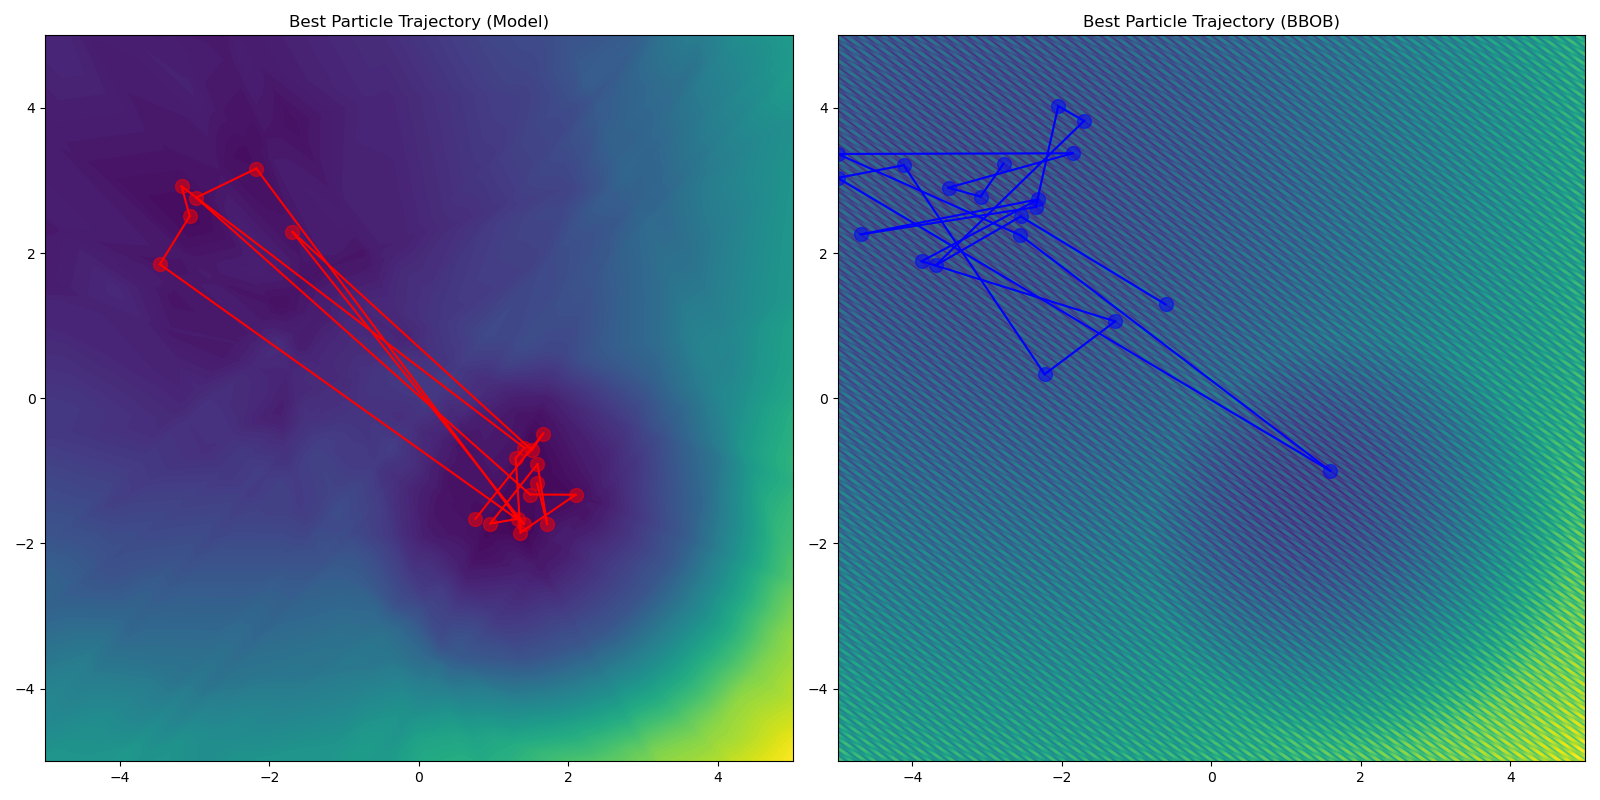
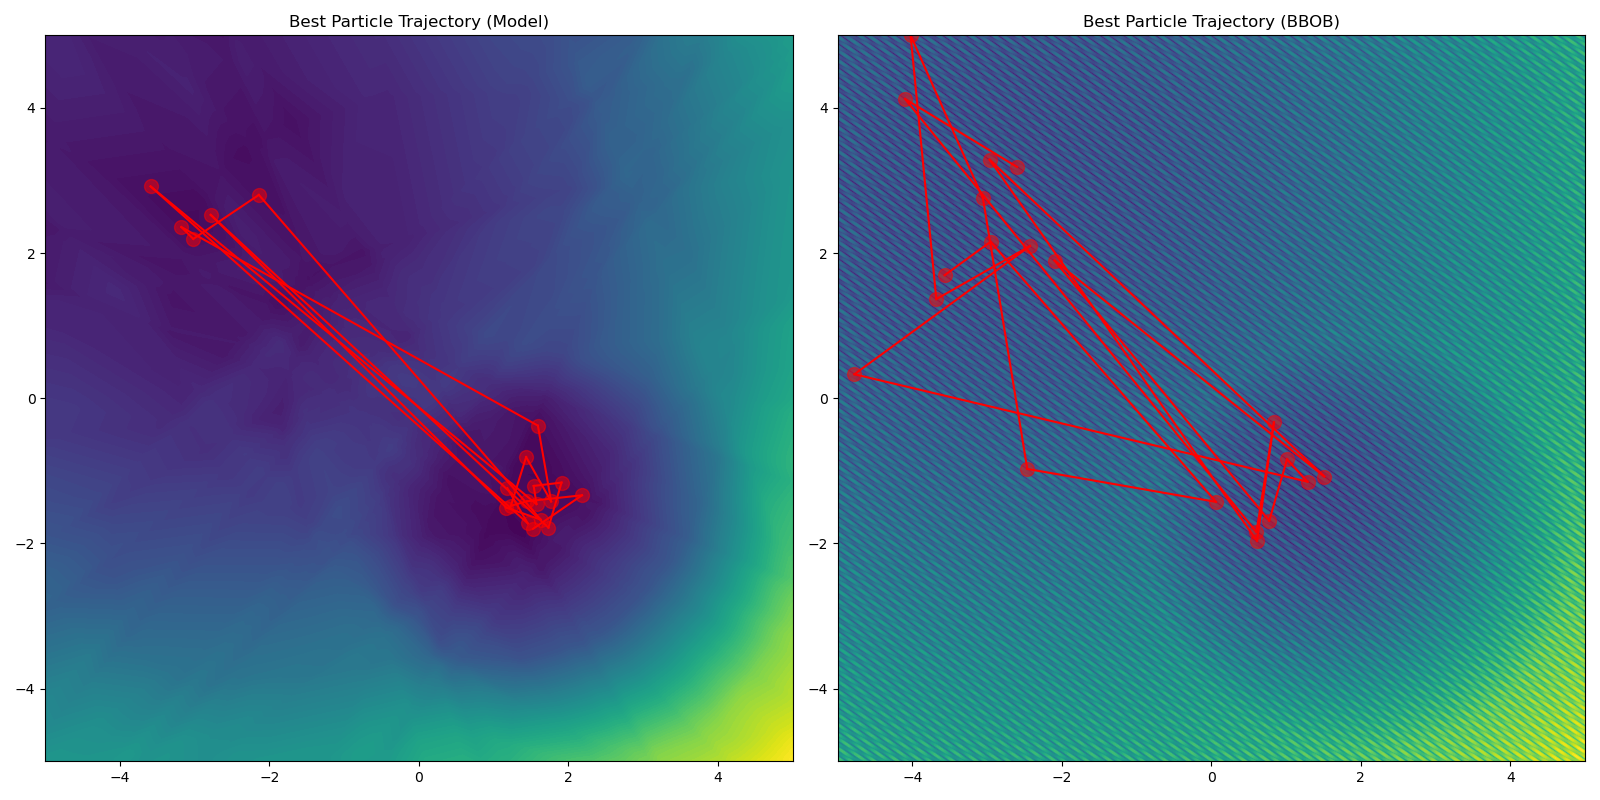
PSO Optim Update

diff --git a/src/PSO_try_bestP.py b/src/PSO_try_bestP.py
@@ -12,7 +12,7 @@ class PSO_optimizer():
         self.model = self.load_model(model_path)
         self.input_bounds = input_bounds
         self.model.eval()
-        self.bbob = bbobtorch.create_f01(2, seed=42)
+        self.bbob = bbobtorch.create_f24(2, seed=42)
         self.bbob_path = pd.DataFrame(columns=["x1", "x2", "y"])
         self.model_path = pd.DataFrame(columns=["x1", "x2", "y"])
         self.path = []
@@ -65,17 +65,17 @@ class PSO_optimizer():
         with torch.no_grad():
             predictions = self.model(grid_data_tensor).numpy().reshape(x_grid.shape)
 
-        function_values = self._get_gt_function(x_grid, y_grid)
+        function_values_bbob = self._get_gt_function(x_grid, y_grid)
 
         fig, axes = plt.subplots(1, 2, figsize=(16, 8))
 
         ax1 = axes[0]  # Define ax1 for the left plot
         ax2 = axes[1]  # Define ax2 for the right plot
 
-        for ax, path in zip([ax1, ax2], [path_model, path_bbob]):
-            ax.contourf(x_grid, y_grid, predictions, levels=100, cmap='viridis')
-            ax.contourf(x_grid, y_grid, function_values, levels=100, cmap='viridis')
+        ax1.contourf(x_grid, y_grid, predictions, levels=100, cmap='viridis')
+        ax2.contourf(x_grid, y_grid, function_values_bbob, levels=100, cmap='viridis')
 
+        for ax, path in zip([ax1, ax2], [path_model, path_bbob]):
             for j in range(0, len(path), num_particles):
                 best_particle = path[j:j+num_particles][np.argmin(path[j:j+num_particles][:, 2])]
                 ax.scatter(path[j:j+num_particles, 0], path[j:j+num_particles, 1], c='red', s=10, marker='o', alpha=0.5)
@@ -86,8 +86,11 @@ class PSO_optimizer():
             else:  # Plot result for the right subplot
                 ax.scatter(x=result_bbob[0], y=result_bbob[1], c='black', s=250, marker='x')
 
+        ax1.set_title("Model Predictions")
+        ax2.set_title("BBOB Function")
+
         plt.tight_layout()
-        plt.savefig('swarm_iterations.png')  # Save the plot as a PNG image
+        plt.savefig('24_swarm_iterations.png')  # Save the plot as a PNG image
         plt.show()
         return plt
 
@@ -98,7 +101,7 @@ class PSO_optimizer():
             for val, (min_val, max_val) in zip(x, self.input_bounds):
                 if val < min_val or val > max_val:
                     penalty += 1e5  # Adjust the penalty value based on your specific needs
-        
+
         x_tensor = torch.tensor(x, dtype=torch.float32)
         y = self.bbob(x_tensor)
         y_scalar = torch.sum(y).item() + penalty
@@ -124,7 +127,7 @@ class PSO_optimizer():
         return results.numpy().reshape(x_grid.shape) 
     
 # Create an instance of the PSO_optimizer class and run the optimization
-model_path = 'models/v2/training_v2_f01_3.pth'
+model_path = 'models/v1/training_v1_f24_3.pth'
 input_bounds = input_bounds=[(-5.0, 5.0), (-5.0, 5.0)]
 
 optimizer = PSO_optimizer(model_path, input_bounds)

diff --git a/src/PSO_bestPerSwarm.py b/src/PSO_bestPerSwarm.py
@@ -79,7 +79,7 @@ class PSO_optimizer():
         best_bbob_positions = np.array(best_positions_bbob)
 
         ax1.scatter(best_model_positions[:, 0], best_model_positions[:, 1], c='red', s=100, marker='o', alpha=0.5)
-        ax2.scatter(best_bbob_positions[:, 0], best_bbob_positions[:, 1], c='blue', s=100, marker='o', alpha=0.5)
+        ax2.scatter(best_bbob_positions[:, 0], best_bbob_positions[:, 1], c='red', s=100, marker='o', alpha=0.5)
 
         for i in range(1, len(best_model_positions)):
             ax1.plot([best_model_positions[i-1, 0], best_model_positions[i, 0]],
@@ -87,7 +87,7 @@ class PSO_optimizer():
 
         for i in range(1, len(best_bbob_positions)):
             ax2.plot([best_bbob_positions[i-1, 0], best_bbob_positions[i, 0]],
-                     [best_bbob_positions[i-1, 1], best_bbob_positions[i, 1]], c='blue')
+                     [best_bbob_positions[i-1, 1], best_bbob_positions[i, 1]], c='red')
 
         ax1.set_title('Best Particle Trajectory (Model)')
         ax2.set_title('Best Particle Trajectory (BBOB)')
